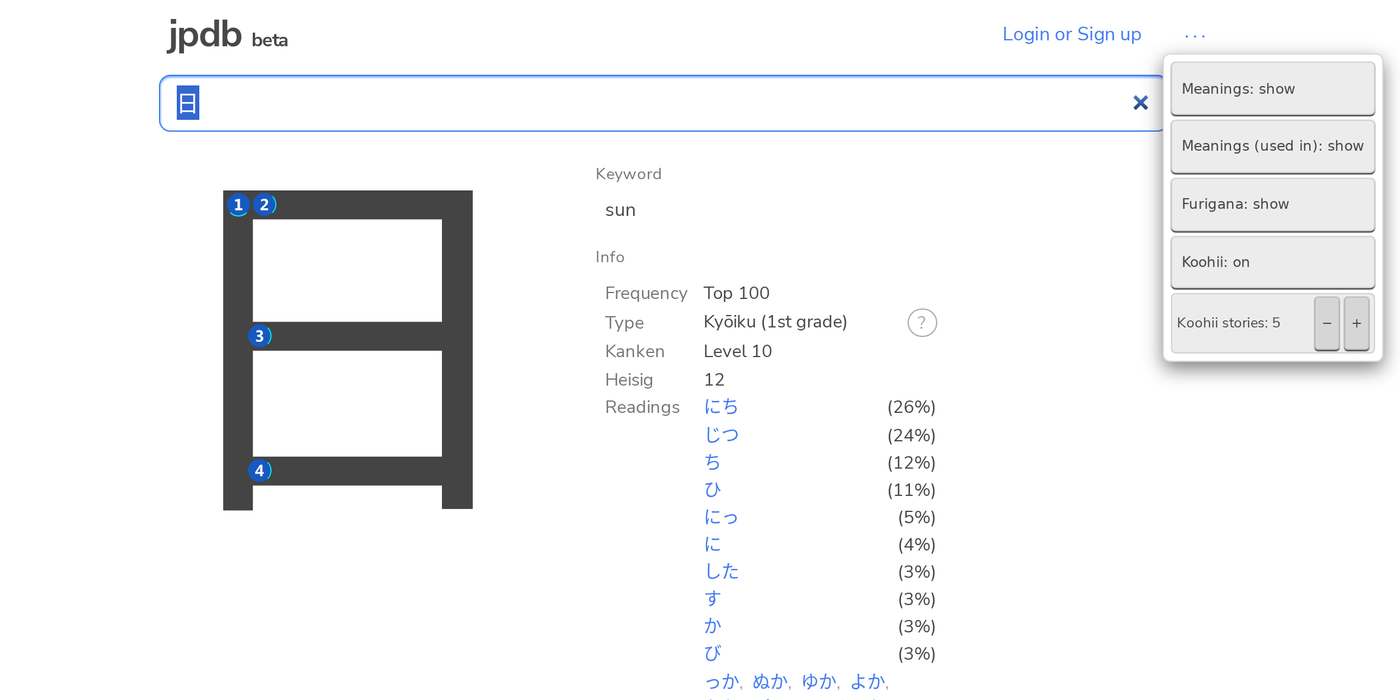
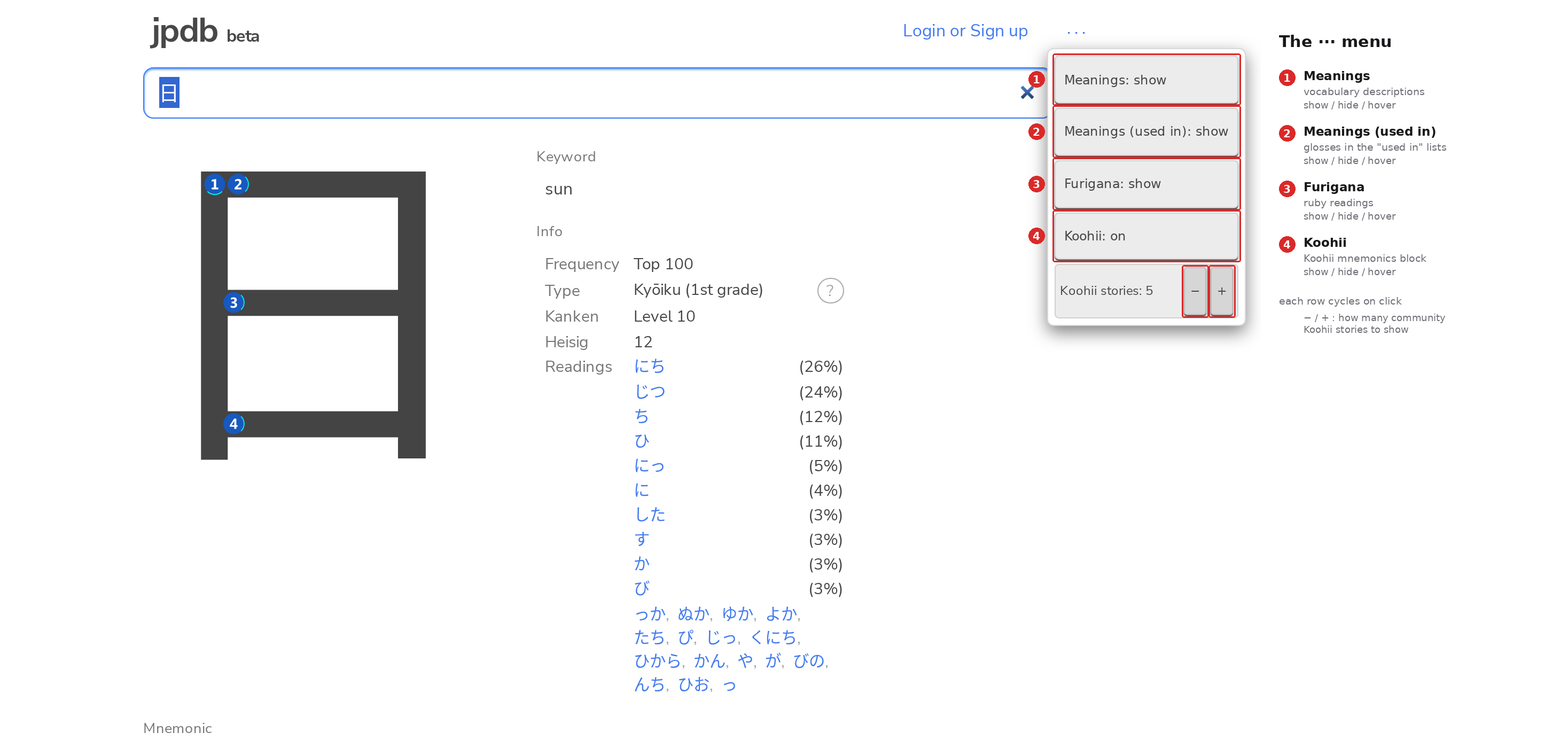
Show each toggle doing something, and say why Koohii needs a login
The screenshots were unlabelled crops of the same page, so nothing showed
which control changed what. The menu shot now boxes and numbers each row
against a legend, and each toggle gets a before/after pair with a red box
drawn from the exact element rects the script's CSS targets.

Also states plainly that the Koohii block only renders for a logged-in
session: kanji.koohii.com serves a sign-in page with zero stories to a
logged-out request, which is why that section has no screenshot.

diff --git a/README.md b/README.md
@@ -3,69 +3,77 @@
 A Tampermonkey userscript that puts a `···` menu on [jpdb.io](https://jpdb.io) and pulls
 [Kanji Koohii](https://kanji.koohii.com) mnemonics onto kanji pages.
 
-![The jpdb+ menu open on a jpdb.io kanji page](docs/menu.png)
+![The ··· menu, with each row labelled](docs/menu.png)
 
 ## Install
 
 **Desktop** — with [Tampermonkey](https://www.tampermonkey.net/) or
 [Violentmonkey](https://violentmonkey.github.io/) installed, open
-[`jpdb-plus.user.js`](https://raw.githubusercontent.com/JasonHiew/jpdb-plus/main/jpdb-plus.user.js) and
-accept the install prompt.
+[`jpdb-plus.user.js`](https://raw.githubusercontent.com/JasonHiew/jpdb-plus/main/jpdb-plus.user.js)
+and accept the install prompt.
 
 **iPhone / iPad** — the free [Userscripts](https://apps.apple.com/app/userscripts/id1463298887)
 app (iOS 15.1+) runs these in Safari. Install it, open the same `.user.js` link in Safari, then
 install from the extension's menu. See [below](#on-iphone-and-ipad) for what Safari changes.
 
-## What it does
+## The menu
 
-### Display toggles
+Four rows and a story count. Each row cycles **show → hide → hover** on click and remembers the
+setting in `localStorage`.
 
-jpdb always shows you the answer. Sometimes you want to make your brain produce it first — so
-each piece of a page can be set to **show**, **hide**, or **hover**, cycling on click and
-remembered in `localStorage`:
+### Meanings
 
-- **Meanings** — the descriptions on a vocabulary entry
-- **Meanings (used in)** — descriptions inside the "used in vocabulary" and "used in kanji" lists
-- **Furigana** — every `rt` ruby annotation on the page
-- **Koohii** — the mnemonic block described below, on or off
+The descriptions on a vocabulary entry: the senses and their example sentences. Hiding them
+leaves the headword, the readings and the part of speech, so you can try to produce the meaning
+before you look.
 
-`hover` hides the text until the pointer is over its container. That is the setting that makes a
-page usable for self-testing while keeping the answer a flick away.
+![Meanings shown, then hidden](docs/toggle-meanings.png)
 
-![Furigana on, left, then off, right](docs/furigana.png)
+### Furigana
 
-### Koohii mnemonics on kanji pages
+Every `rt` annotation on the page — the small reading above precisely the kanji you might not
+know yet.
 
-Kanji Koohii's stories for the kanji you are looking at, inserted under jpdb's own mnemonic
-section: your favourites first, then community stories, each with author, date and star count.
-Stories can be starred from jpdb without leaving the page. The `−` / `+` row sets how many
-community stories to show. Each kanji is cached for a week; `refresh` refetches it.
+![Furigana shown, then hidden](docs/toggle-furigana.png)
 
-## Two things to know
+### Meanings (used in)
 
-**Koohii needs you logged in.** The script reads the Koohii page as you, through your browser's
-own cookies, so there is no account to configure and no token to paste — but with no Koohii
-session the story list comes back empty and only the section header and `refresh` link appear.
-Log in to kanji.koohii.com once in the same browser.
+The English inside the "used in kanji" and "used in vocabulary" lists. A kanji page ends in
+hundreds of related words; with the glosses hidden it reads as a list of shapes to recognise
+rather than a wall of translations. The Japanese and the readings stay either way.
 
-**It scrapes Koohii's HTML.** There is no API for those stories, so the parse depends on their
-current markup and will break if they redesign the page. Bug reports with the kanji and a
-screenshot are the fastest fix.
+![Glosses in the used-in lists shown, then hidden](docs/toggle-usedin.png)
+
+### Koohii
+
+Kanji Koohii's stories for the current kanji, inserted under jpdb's own mnemonic section: your
+favourites first, then community stories with author, date and star count, starrable without
+leaving the page. Cached per kanji for a week; `refresh` refetches. The `−` / `+` row sets how
+many community stories to show.
+
+**This one needs a Koohii login, which is why there is no screenshot of it here.** Kanji Koohii
+answers a logged-out request with a sign-in page and zero stories — the whole page, not just the
+favourites — and jpdb+ reads that page through your browser's own cookies. So there is nothing to
+configure and no token to paste, but with no Koohii session you get an empty list and only the
+section header and `refresh` link. Log in once at kanji.koohii.com in the same browser and the
+stories appear.
+
+## Limits
+
+- **It scrapes Koohii's HTML.** There is no API for those stories, so the parse depends on their
+  current markup and will break if they redesign. Bug reports with the kanji and a screenshot are
+  the fastest fix.
+- **`hover` does nothing on touch.** There is no pointer to hover with, so on a phone use `hide`.
 
 ## On iPhone and iPad
 
-The script runs unchanged in Safari through the Userscripts app, with two differences worth
-knowing before you install it there:
-
-- `hover` is a no-op on touch: there is no pointer to hover with. Use `hide` on mobile.
-- The `···` menu opens on tap and closes when you tap elsewhere.
-
-A native Safari Web Extension with a proper toolbar popup is the better long-term home for the
-settings. It is not built yet.
+The script runs unchanged in Safari through the Userscripts app. The `···` menu opens on tap and
+closes when you tap elsewhere. A native Safari Web Extension with a toolbar popup would be a
+better home for the settings; it is not built yet.
 
 ## Notes
 
 Not affiliated with jpdb.io or Kanji Koohii. It only changes what your own browser renders and
-only sends requests you would have made by opening those pages yourself.
+only makes requests you would have made by opening those pages yourself.
 
 MIT licensed. No build step: one file, no dependencies.
